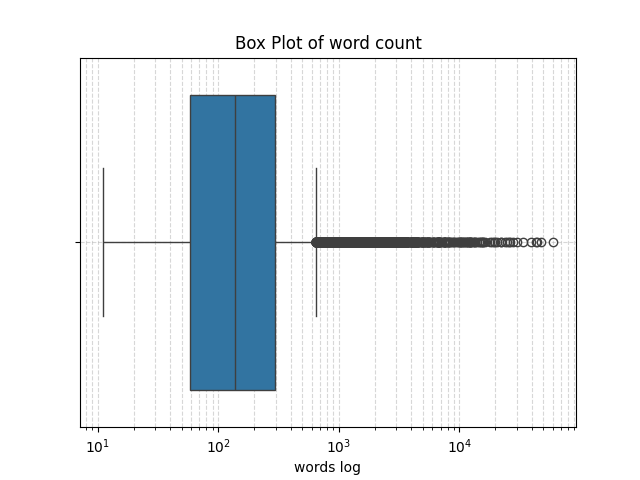
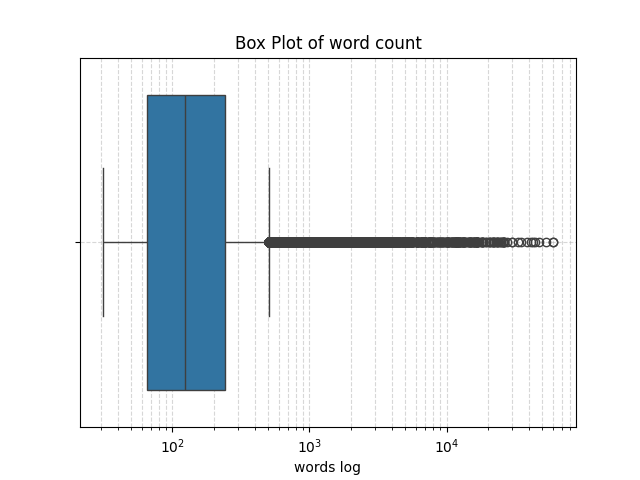
Data analysis

diff --git a/code/tbls/character_stats.tex b/code/tbls/character_stats.tex
@@ -1,10 +1,12 @@
-\newcommand{\characterLength}{76,870,382}
-\newcommand{\characterMin}{47}
-\newcommand{\characterQone}{388}
-\newcommand{\characterMedian}{894}
-\newcommand{\characterQthree}{2,003}
-\newcommand{\characterMax}{382,300}
-\newcommand{\characterIqr}{1,615}
-\newcommand{\characterCount}{33,859}
-\newcommand{\characterMean}{2,270.31}
-\newcommand{\characterStd}{7,098.52}
+\newcommand{\characterLength}{191,982,002}
+\newcommand{\characterMin}{77}
+\newcommand{\characterQone}{379}
+\newcommand{\characterMedian}{724}
+\newcommand{\characterQthree}{1,452}
+\newcommand{\characterMax}{1,371,868}
+\newcommand{\characterIqr}{1,073}
+\newcommand{\characterCount}{125,479}
+\newcommand{\characterMean}{1,529.99}
+\newcommand{\characterStd}{7,061.40}
+\newcommand{\characterSkewness}{104.03}
+\newcommand{\characterKurtosis}{17,672.80}

diff --git a/code/tbls/word_stats.tex b/code/tbls/word_stats.tex
@@ -1,10 +1,12 @@
-\newcommand{\wordLength}{10,488,052}
-\newcommand{\wordMin}{11}
-\newcommand{\wordQone}{59}
-\newcommand{\wordMedian}{137}
-\newcommand{\wordQthree}{294}
-\newcommand{\wordMax}{60,526}
-\newcommand{\wordIqr}{235}
-\newcommand{\wordCount}{33,859}
-\newcommand{\wordMean}{309.76}
-\newcommand{\wordStd}{983.77}
+\newcommand{\wordLength}{30,253,226}
+\newcommand{\wordMin}{31}
+\newcommand{\wordQone}{65}
+\newcommand{\wordMedian}{123}
+\newcommand{\wordQthree}{242}
+\newcommand{\wordMax}{60,256}
+\newcommand{\wordIqr}{177}
+\newcommand{\wordCount}{125,479}
+\newcommand{\wordMean}{241.10}
+\newcommand{\wordStd}{754.58}
+\newcommand{\wordSkewness}{32.06}
+\newcommand{\wordKurtosis}{1,637.36}

diff --git a/code/tbls/general_stats.tex b/code/tbls/general_stats.tex
@@ -1,2 +1,2 @@
-\newcommand{\NoFolderLength}{236,050}
-\newcommand{\GeneralLength}{170,589}
+\newcommand{\NoFolderLength}{213,145}
+\newcommand{\GeneralLength}{125,479}
